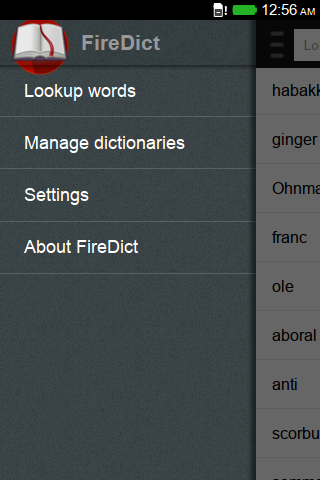
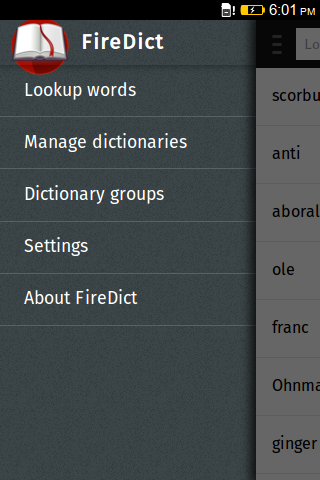
New screenshots, version 1.4.1.

diff --git a/README.md b/README.md
@@ -7,10 +7,13 @@ A simple offline dictionary software for Firefox OS
 ![screenshot1](https://raw.github.com/tuxor1337/firedict/master/screen1.png "list of matches")
 
 ![screenshot2](https://raw.github.com/tuxor1337/firedict/master/screen2.png "displaying an entry") #
-![screenshot3](https://raw.github.com/tuxor1337/firedict/master/screen3.png "managing dictionaries")
+![screenshot3](https://raw.github.com/tuxor1337/firedict/master/screen3.png "choosing the groups")
 
-![screenshot4](https://raw.github.com/tuxor1337/firedict/master/screen4.png "changing a dictionary's color") #
-![screenshot4](https://raw.github.com/tuxor1337/firedict/master/screen5.png "moving dictionaries around")
+![screenshot4](https://raw.github.com/tuxor1337/firedict/master/screen4.png "managing dictionaries") #
+![screenshot5](https://raw.github.com/tuxor1337/firedict/master/screen5.png "moving dictionaries around")
+
+![screenshot6](https://raw.github.com/tuxor1337/firedict/master/screen6.png "managing groups") #
+![screenshot7](https://raw.github.com/tuxor1337/firedict/master/screen7.png "settings")
 
 localization
 ------------
